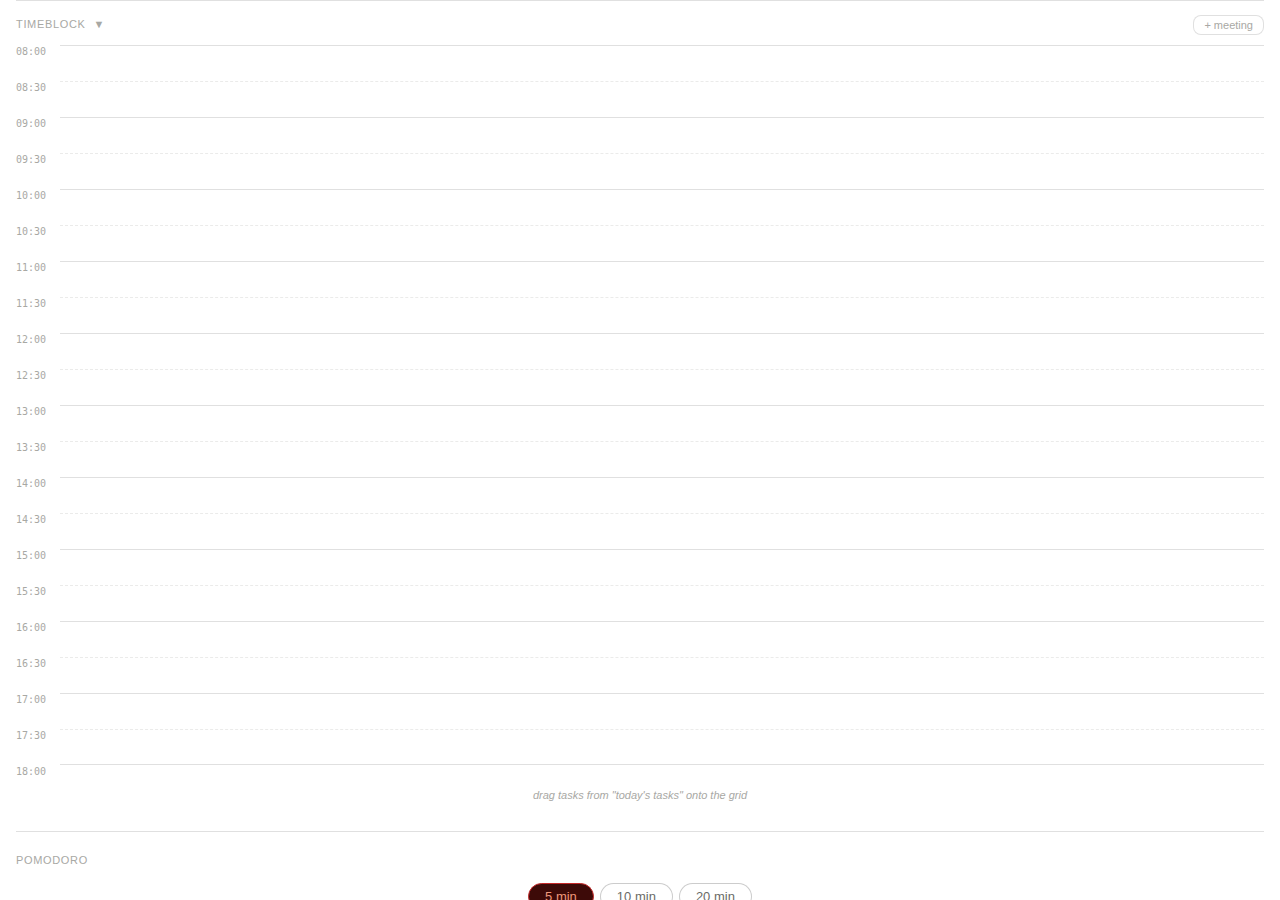
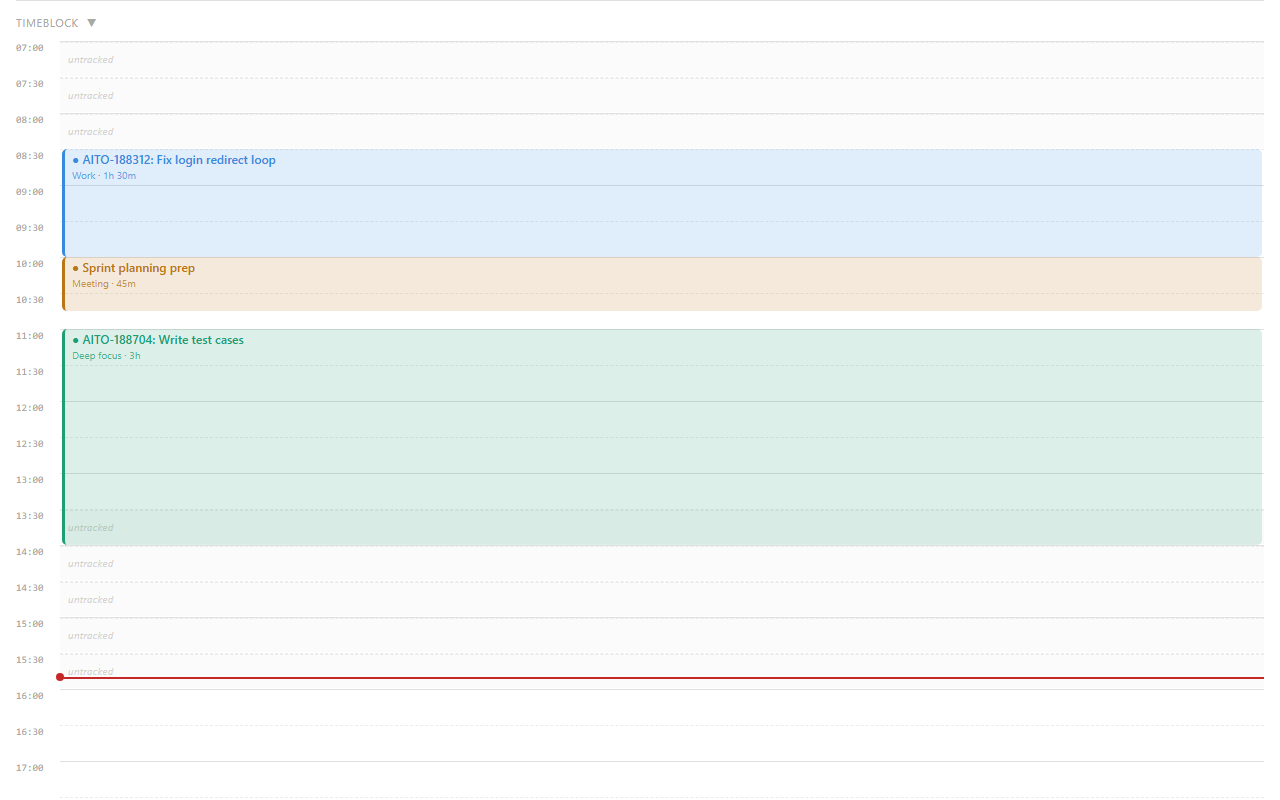
Update README and screenshots to reflect current feature set
- Refresh all 5 screenshots with current UI and sample data
- Add focus mode screenshot (ss5-focus-mode)
- Expand README features: focus mode, parked thoughts, subtasks,
  billable tracking, Jira import, Outlook meetings, auto-backup,
  weekly release setup

diff --git a/README.md b/README.md
@@ -12,12 +12,14 @@ ADHD-friendly work tracker — single HTML file, runs locally in your browser.
 
 ![Pomodoro](screenshots/ss4-pomodoro.png)
 
+![Focus Mode](screenshots/ss5-focus-mode.png)
+
 ## How to use
 
 > **Important:** The tracker needs to run via a local server (not opened directly as a file) so your data saves correctly between sessions.
 
 ### Windows
-1. Download `work-log.html` and `launch.bat` into the same folder
+1. Download `work-log.html`, `launch.bat`, and `start-server.ps1` into the same folder
 2. Double-click `launch.bat`
 3. The tracker opens automatically in your browser
 
@@ -33,19 +35,38 @@ Your data is stored locally in your browser — nothing is sent anywhere.
 
 ## Features
 
-- **Time logging** — log what you're working on with a live timer
+### Time tracking
+- **Live timer** — start a timer on any task, pause and resume, add a handoff note when stopping
+- **Time log** — every logged entry shown with duration, epic, and billable flag
+- **Billable tracking** — mark epics and individual entries as billable; totals shown per task and per day
+- **Quick pick** — recent tasks shown as chips for fast re-logging
+
+### Tasks
 - **Today's tasks** — To do / In Progress / Done with epic colour coding
-- **Task hierarchy** — drag tasks to create parent-child relationships
-- **Timeblock** — visual 08:00–18:00 grid with auto-blocks from logged entries
-- **Pomodoro timer** — 5 / 10 / 20 min with session log
-- **Epics** — colour-coded categories for your work
-- **Weather** — current conditions, rain forecast, sunrise/sunset
-- **Moon phase** — current phase, illumination and zodiac sign
+- **Task subtasks** — split any task into child steps; completing all steps completes the parent
+- **Deadlines** — date picker with overdue (red) and due-today (amber) highlighting
+- **Auto-carry** — unfinished tasks roll over to the next day automatically
+- **Jira import** — paste a Jira CSV export to bulk-add tickets as tasks
+- **Completion history** — done tasks shown for 14 days with timestamp, then expire by iteration
+
+### Focus mode
+- **Focus screen** — one-click distraction-free view showing only the active task and next steps
+- **Parked thoughts** — capture stray thoughts mid-focus without leaving the screen
+- **Pomodoro timer** — 5 / 10 / 20 min ring timer with session log; visible in focus mode
+
+### Planning
+- **Today's meetings** — fetched live from Outlook calendar (Windows); shows time, duration, Teams join link
+- **Timeblock** — visual 08:00–18:00 grid auto-filled from logged entries; drag to rearrange
+- **Day streak** — consecutive days with logged work
+
+### Export & review
+- **End the day** — one-click summary with test areas and tomorrow's notes, exported as .txt
+- **Auto-backup** — JSON backup saved automatically on end-of-day to a local `JSON backups/` folder
+
+### Info widgets
+- **Weather** — current conditions, rain forecast, sunrise/sunset (Helsinki)
+- **Moon phase** — current phase, illumination %, and zodiac sign
 - **Finnish nameday** — fetched live from nimipaivat.fi
-- **Export** — download your day as a .txt file
-- **End the day** — one-click export with test area review
-- **Auto-carry** — unfinished tasks roll over to the next day
-- **Completed tasks** — 14-day rolling history
 
 ## Testing
 
@@ -55,4 +76,8 @@ A smoke test suite is included. Requires Node.js.
 node smoke-tests.js
 ```
 
-Or double-click `run-tests.bat` on Windows. To schedule tests to run automatically each morning, run `schedule-tests.bat` once as Administrator.
+Or double-click `run-tests.bat` on Windows.
+
+To schedule tests to run automatically each morning, run `schedule-tests.bat` once as Administrator.
+
+To set up automated weekly releases every Friday, run `setup-scheduler.ps1` once as Administrator.
